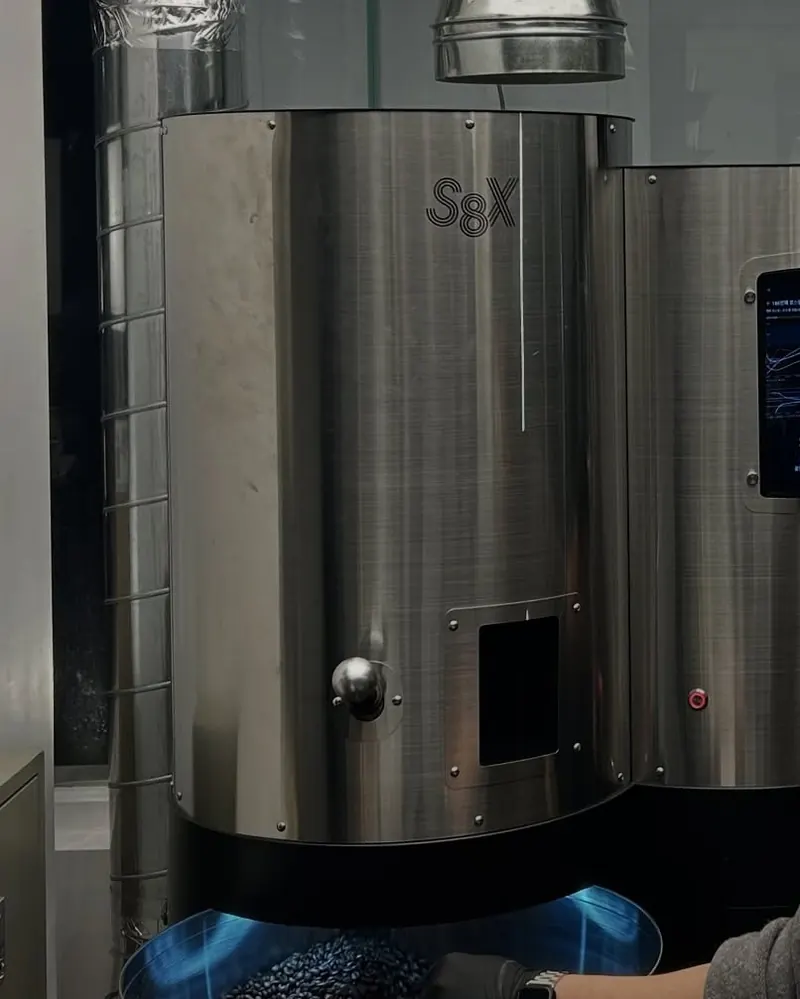
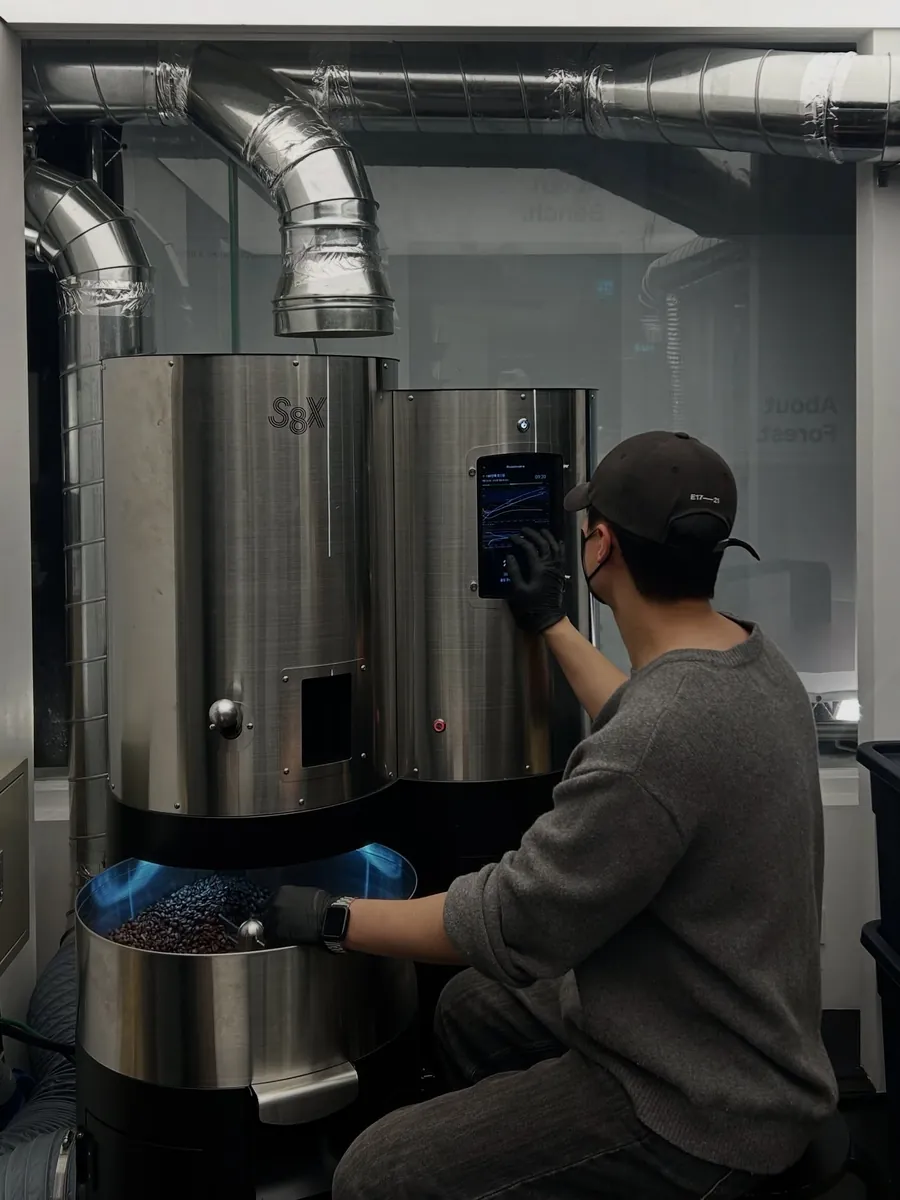
Add files via upload

diff --git a/index.html b/index.html
@@ -96,6 +96,7 @@ h1,h2,h3,p{ margin:0; }
 @media (min-width:900px){ .hero .wrap{ grid-template-columns:minmax(0,5fr) minmax(0,7fr); gap:56px; } }
 .hero .kicker{ color:var(--night-soft); }
 .hero h1{ margin-top:18px; font-family:var(--serif); font-weight:900; font-size:clamp(6rem,26vw,13rem); line-height:.9; letter-spacing:.02em; }
+.hero h1 .hero-logo{ width:min(100%,420px); height:auto; }
 .hero h1 small{ display:block; margin-top:18px; font-family:var(--sans); font-weight:600; font-size:clamp(.95rem,1.6vw,1.1rem); letter-spacing:.3em; color:var(--night-soft); }
 .hero .lead{ margin-top:28px; font-family:var(--serif); font-weight:600; font-size:clamp(1.25rem,2.6vw,1.6rem); line-height:1.55; }
 .hero .meaning{ margin-top:12px; color:var(--night-soft); font-size:.92rem; font-family:var(--serif); font-weight:500; }
@@ -121,12 +122,9 @@ h1,h2,h3,p{ margin:0; }
 .dots i.f{ background:var(--ink); }
 .dots i.h{ background:linear-gradient(90deg, var(--ink) 50%, transparent 50%); }
 .roast-lv{ font-family:var(--serif); font-weight:700; font-size:1rem; }
-.bean svg{ display:block; width:calc(100% + 52px); margin:22px -26px 0; height:96px; }
+/* 원두 그래픽 (사장님 제공 · 흰 바탕 jpg → multiply로 카드색에 녹임) */
+.bean .mark{ display:block; height:84px; width:auto; max-width:100%; margin:auto 0 30px; padding-top:28px; box-sizing:content-box; object-fit:contain; object-position:left center; mix-blend-mode:multiply; }
 .beans-note{ margin-top:18px; font-size:.84rem; color:var(--soft); }
-.bean-pics{ display:grid; grid-template-columns:2fr 1fr; gap:14px; margin-top:22px; }
-.bean-pics img{ width:100%; height:100%; object-fit:cover; border-radius:2px; }
-.bean-pics .a{ aspect-ratio:16/10; } .bean-pics .b{ aspect-ratio:4/5; }
-@media (max-width:899px){ .bean-pics{ grid-template-columns:1fr 1fr; } .bean-pics .a{ grid-column:1 / -1; } .bean-pics .b{ aspect-ratio:1; } }
 
 /* 로스팅 과정 */
 .steps{ display:grid; gap:18px; margin-top:52px; counter-reset:s; }
@@ -186,20 +184,6 @@ h1,h2,h3,p{ margin:0; }
 </head>
 <body>
 
-<!-- 원두 카드 하단 능선 선 그림 (재사용) -->
-<svg width="0" height="0" style="position:absolute" aria-hidden="true">
-  <symbol id="ridge" viewBox="0 0 400 96" preserveAspectRatio="none">
-    <g fill="none" stroke="#161616" stroke-width="1">
-      <path d="M0 40 C60 10 110 60 170 34 S280 8 330 30 S390 52 400 44"/>
-      <path d="M0 48 C70 20 120 66 180 42 S290 16 340 38 S392 60 400 52"/>
-      <path d="M0 56 C64 34 126 72 186 50 S296 26 346 46 S394 66 400 60"/>
-      <path d="M0 63 C58 46 132 78 192 58 S300 36 352 54 S396 72 400 68"/>
-      <path d="M0 70 C66 56 136 84 198 66 S306 46 358 62 S397 78 400 75"/>
-      <path d="M0 77 C72 66 140 90 204 74 S312 56 364 70 S398 84 400 82"/>
-      <path d="M0 84 C78 76 146 94 210 82 S318 66 370 78 S399 90 400 89"/>
-    </g>
-  </symbol>
-</svg>
 
 <header class="site-head">
   <div class="wrap">
@@ -214,7 +198,7 @@ h1,h2,h3,p{ margin:0; }
     <div class="wrap">
       <div class="reveal">
         <p class="kicker">Coffee Roasters · Est. 2024</p>
-        <h1>礎石<small>CHOSEOK ROASTERS</small></h1>
+        <h1><img class="hero-logo" src="cs-hero-logo.webp" alt="礎石 CHOSEOK ROASTERS" width="472" height="259" /></h1>
         <p class="lead">본질에 집중하여<br />초석을 다져나가는 커피 브랜드</p>
         <p class="meaning">礎石(초석) · 집을 세울 때 가장 먼저 놓는 주춧돌</p>
         <div class="cta">
@@ -229,7 +213,7 @@ h1,h2,h3,p{ margin:0; }
   <section class="sec" id="beans" aria-labelledby="beans-h">
     <div class="wrap">
       <div class="head reveal">
-        <div><p class="kicker">Beans</p><h2 id="beans-h" class="h2">세 가지 <span class="han">이름</span>의 원두</h2></div>
+        <div><p class="kicker">Beans</p><h2 id="beans-h" class="h2">초석의 시그니처 블렌딩</h2></div>
         <p class="desc">초석은 건축에서 모든 구조를 지탱하는 시작점입니다. 우리는 커피 또한 기본에 충실한 구조와 균형 위에서 완성된다고 믿습니다. 이에 건축 용어를 차용해 각 블렌딩이 만들어내는 공간의 성격과 감각을 커피의 맛으로 표현했습니다.</p>
       </div>
       <div class="beans">
@@ -243,7 +227,7 @@ h1,h2,h3,p{ margin:0; }
             <span>무게감</span><span class="dots"><span class="sr">5점 중 3.5</span><i class="f"></i><i class="f"></i><i class="f"></i><i class="h"></i><i></i></span>
             <span>로스팅</span><span class="roast-lv">Medium Dark</span>
           </div>
-          <svg aria-hidden="true"><use href="#ridge"/></svg>
+          <img class="mark" loading="lazy" src="cs-bean-eumyeong.webp" alt="" width="531" height="300" />
         </article>
         <article class="bean reveal">
           <h3>채광<span>[採光]</span></h3>
@@ -255,7 +239,7 @@ h1,h2,h3,p{ margin:0; }
             <span>무게감</span><span class="dots"><span class="sr">5점 중 1.5</span><i class="f"></i><i class="h"></i><i></i><i></i><i></i></span>
             <span>로스팅</span><span class="roast-lv">Medium Light</span>
           </div>
-          <svg aria-hidden="true"><use href="#ridge"/></svg>
+          <img class="mark" loading="lazy" src="cs-bean-chaegwang.webp" alt="" width="398" height="118" />
         </article>
         <article class="bean reveal">
           <h3>정적<span>[靜寂]</span></h3>
@@ -267,14 +251,10 @@ h1,h2,h3,p{ margin:0; }
             <span>무게감</span><span class="dots"><span class="sr">5점 중 3</span><i class="f"></i><i class="f"></i><i class="f"></i><i></i><i></i></span>
             <span>로스팅</span><span class="roast-lv">Medium Dark</span>
           </div>
-          <svg aria-hidden="true"><use href="#ridge"/></svg>
+          <img class="mark" loading="lazy" src="cs-bean-jeongjeok.webp" alt="" width="386" height="134" />
         </article>
       </div>
       <p class="beans-note reveal">원두 구성은 시즌에 따라 바뀔 수 있어요. 원두 구매 · 문의는 인스타그램 DM으로 남겨 주세요.</p>
-      <div class="bean-pics reveal">
-        <img class="a" loading="lazy" src="cs-cards.webp" alt="아크릴 판 아래 놓인 원두 카드 세 장" width="1200" height="750" />
-        <img class="b" loading="lazy" src="cs-bag.webp" alt="채광 採光 원두 봉투를 든 손" width="800" height="1000" />
-      </div>
     </div>
   </section>
 
@@ -286,7 +266,7 @@ h1,h2,h3,p{ margin:0; }
       </div>
       <div class="steps">
         <figure class="reveal"><img loading="lazy" src="cs-green.webp" alt="생두 자루가 쌓인 유리방" width="800" height="1000" /><figcaption><b>생두 · Green</b><span>생두를 고르고 보관합니다.</span></figcaption></figure>
-        <figure class="reveal"><img loading="lazy" src="cs-roast.webp" alt="원두를 식히는 로스터 기계" width="800" height="999" /><figcaption><b>로스팅 · Roast</b><span>원두마다 맞는 정도로 직접 볶습니다.</span></figcaption></figure>
+        <figure class="reveal"><img loading="lazy" src="cs-roast.webp" alt="로스터 기계 앞에서 원두를 볶는 로스터" width="900" height="1200" /><figcaption><b>로스팅 · Roast</b><span>원두마다 맞는 정도로 직접 볶습니다.</span></figcaption></figure>
         <figure class="reveal"><img loading="lazy" src="cs-brew.webp" alt="바에서 드리퍼에 물을 붓는 바리스타" width="800" height="1200" style="object-position:50% 25%" /><figcaption><b>브루잉 · Brew</b><span>바에서 한 잔씩 내립니다.</span></figcaption></figure>
       </div>
     </div>
@@ -340,7 +320,7 @@ h1,h2,h3,p{ margin:0; }
           <h3>초석로스터스 국가정원</h3>
           <dl>
             <div><dt>주소</dt><dd>울산 중구 태화강국가정원길 217 1~2층<small>1층 커피바 · 2층 라운지 · 태화강 국가정원 주차장 이용</small></dd></div>
-            <div><dt>시간</dt><dd>~22:00<small>오픈 시간은 네이버 플레이스에서 확인해 주세요</small></dd></div>
+            <div><dt>시간</dt><dd>08:00~22:00</dd></div>
             <div><dt>전화</dt><dd><a href="tel:050713241680">0507-1324-1680</a></dd></div>
           </dl>
           <div class="links"><a class="btn fill" href="https://map.naver.com/p/entry/place/2058198826" target="_blank" rel="noopener">네이버 길찾기</a></div>

diff --git a/CHANGELOG.md b/CHANGELOG.md
@@ -1,5 +1,18 @@
 # CHANGELOG · 礎石 초석로스터스 CHOSEOK ROASTERS (울산 · 서울 로스터리 카페)
 
+## v0.3 · 2026-11-08 (사장님 추가 수정)
+- **히어로 礎石**: 글자 → 사장님 최신 로고 누끼(img/초석최신로고누끼 (1).png)를 흰색으로 바꾼 `cs-hero-logo.webp`(472×259, 최대 420px). "CHOSEOK ROASTERS"가 로고 안에 있어 별도 작은 글자 삭제.
+- **Beans 제목**: "세 가지 이름의 원두" → "초석의 시그니처 블렌딩".
+- **원두 사진 2장 삭제**(cs-cards · cs-bag).
+- **원두 카드 하단 능선 선화 삭제** → 사장님 원두 그래픽(img/1_jpg) 파일명대로 매칭: 음영 = 겹친 갈색 사각형 `cs-bean-eumyeong.webp` · 채광 = 주황~노랑 줄무늬 `cs-bean-chaegwang.webp` · 정적 = 겹친 회색 타원 `cs-bean-jeongjeok.webp`. 흰 바탕 jpg라 `mix-blend-mode:multiply`로 카드색에 녹임, 높이 84px 왼쪽 정렬 · 카드 바닥에 맞춤. 능선 SVG symbol 삭제.
+- **로스팅 사진**: 기계만 자른 컷 → 원본 전체(로스터 포함, img #25) `cs-roast.webp` 덮어씀.
+- **국가정원 영업시간**: "~22:00 · 오픈 시간은 네이버 확인" → "08:00~22:00"(다올). 요일 정보 없어 JSON-LD 시간은 생략 유지.
+- 폰트 재생성 불필요(새 글자는 대체 텍스트의 '앞'뿐 · 화면 표시 없음).
+
+### 확인 필요 (v0.3)
+- 정적 · 채광 그래픽 원본이 작음(약 390×130) → 84px 높이 표시는 괜찮지만 고해상도 원본 있으면 교체 권장. 로고 누끼도 472px 원본.
+- 국가정원 08:00~22:00이 매일인지 확인(현재 "매일" 표기 안 함).
+
 ## v0.2.1 · 2026-11-08
 - 매장 섹션 문구 2개 삭제(다올): 설명 "문의는 인스타그램 DM으로 남겨 주세요." · 하단 "모든 매장 단체 이용 · 포장 · 무선 인터넷 가능". 안 쓰는 `.stores-note` 스타일도 삭제. 폰트 재생성 불필요(글자 추가 없음).
 

diff --git a/STRUCTURE.md b/STRUCTURE.md
@@ -2,14 +2,15 @@
 
 ```
 choseokroasters-sample/
-├─ index.html              단일 파일 (CSS·JS 인라인, 능선 SVG symbol 포함)
+├─ index.html              단일 파일 (CSS·JS 인라인)
 ├─ wrangler.toml           name = choseokroasters-sample → choseokroasters-sample.lgt3232.workers.dev (Worker 이름도 같게)
 ├─ .assetsignore           img/ · 문서 · index_*.html · _deploy 배포 제외
 ├─ cs-notoserif.woff2      한자 · 제목 (Noto Serif KR 500–900, 쓰는 글자만)
 ├─ cs-pretendard.woff2     본문 (Pretendard 400–700, 한자 없음)
 ├─ cs-logo.webp / cs-logo-w.webp   검정 · 흰색 배지 로고 · favicon.png
 ├─ cs-hero.webp            히어로 팀 사진 (v0.2 · img/hero.jpg)
-├─ cs-cards / cs-bag .webp         Beans 사진
+├─ cs-hero-logo.webp       히어로 礎石 로고 (흰색 · v0.3 · 사장님 누끼)
+├─ cs-bean-eumyeong / chaegwang / jeongjeok .webp   원두 카드 그래픽 (img/1_jpg · multiply)
 ├─ cs-green / cs-roast / cs-brew .webp   Roasting 3단계 (brew = img/brewing.jpg)
 ├─ cs-bakery / cs-bakery-team .webp      베이커리팀 섹션 (#cups)
 ├─ cs-space-1~3.webp       Space (img/cpn1~3)
